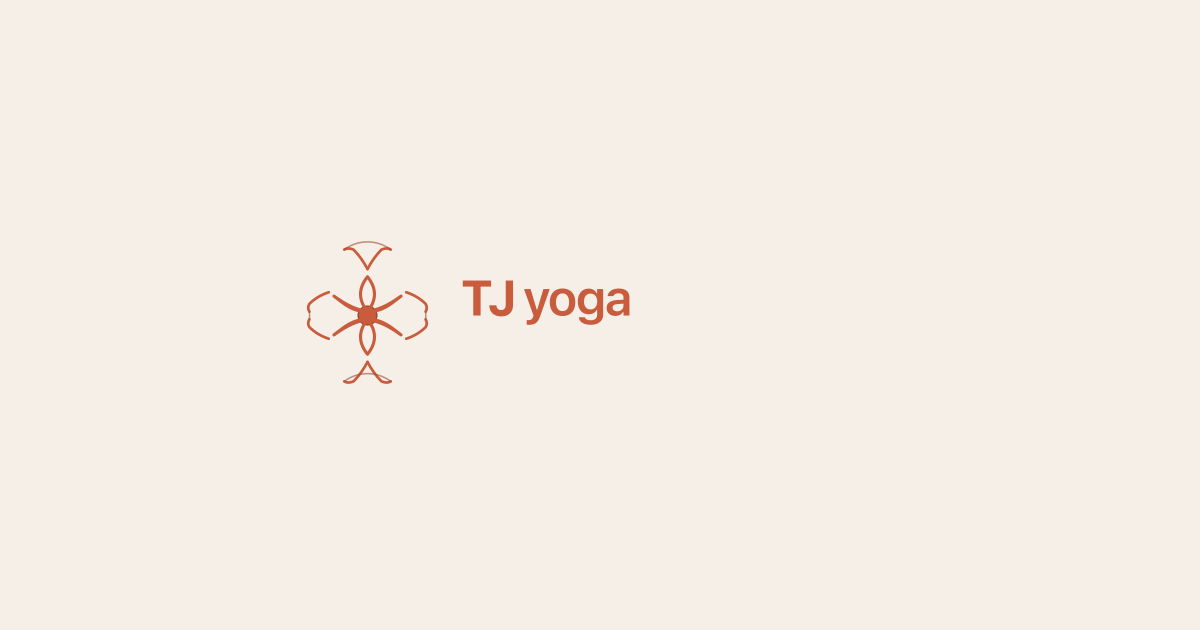
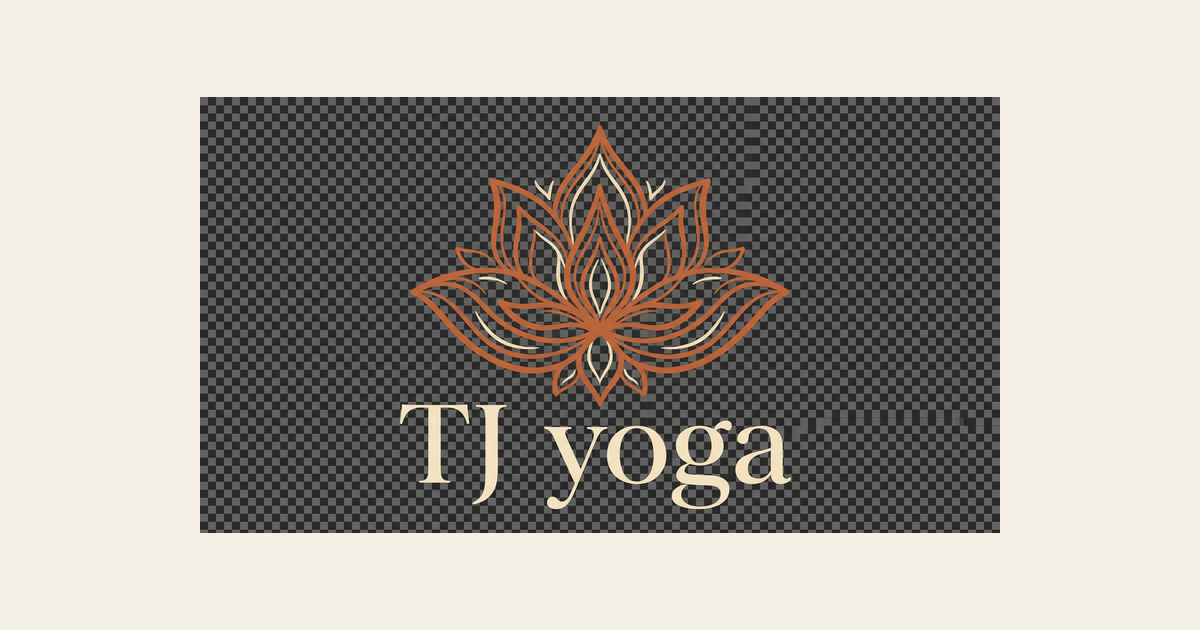
Обновлены все логотипы и иконки: новый дизайн с лотосом
- Добавлен новый логотип с орнаментом лотоса
- В шапке сайта: полный логотип (лотос + TJyoga)
- В фавиконках и поисковых системах: только буквы TJ
- Сгенерированы все размеры: favicon (16-128px), Apple (180px), PWA (192, 512px)
- Обновлено Open Graph изображение для соцсетей
- Создан автоматический скрипт генерации логотипов

diff --git a/index.html b/index.html
@@ -2,9 +2,12 @@
 <html lang="ru">
   <head>
     <meta charset="UTF-8" />
+    <!-- Favicon - буквы TJ -->
     <link rel="icon" type="image/x-icon" href="/favicon.ico" />
-    <link rel="icon" type="image/png" sizes="128x128" href="/favicon-128.png" />
+    <link rel="icon" type="image/png" sizes="16x16" href="/favicon-16.png" />
+    <link rel="icon" type="image/png" sizes="32x32" href="/favicon-32.png" />
     <link rel="icon" type="image/png" sizes="64x64" href="/favicon-64.png" />
+    <link rel="icon" type="image/png" sizes="128x128" href="/favicon-128.png" />
     <link rel="apple-touch-icon" sizes="180x180" href="/apple-touch-icon.png" />
     <title>TJ Yoga - Классическая Хатха Йога из первоисточников | Онлайн-клуб и ретриты</title>
     <meta name="viewport" content="width=device-width, initial-scale=1.0" />

diff --git a/src/components/Header.tsx b/src/components/Header.tsx
@@ -61,7 +61,7 @@ const Header: React.FC = () => {
           aria-label="TJ yoga - перейти на главную"
         >
           <img
-            src="/images/logo/tjyoga-logo.svg"
+            src="/images/logo/tjyoga-logo-header.png"
             alt="TJ yoga logo"
             className="h-10 md:h-12 w-auto"
             width="200"
